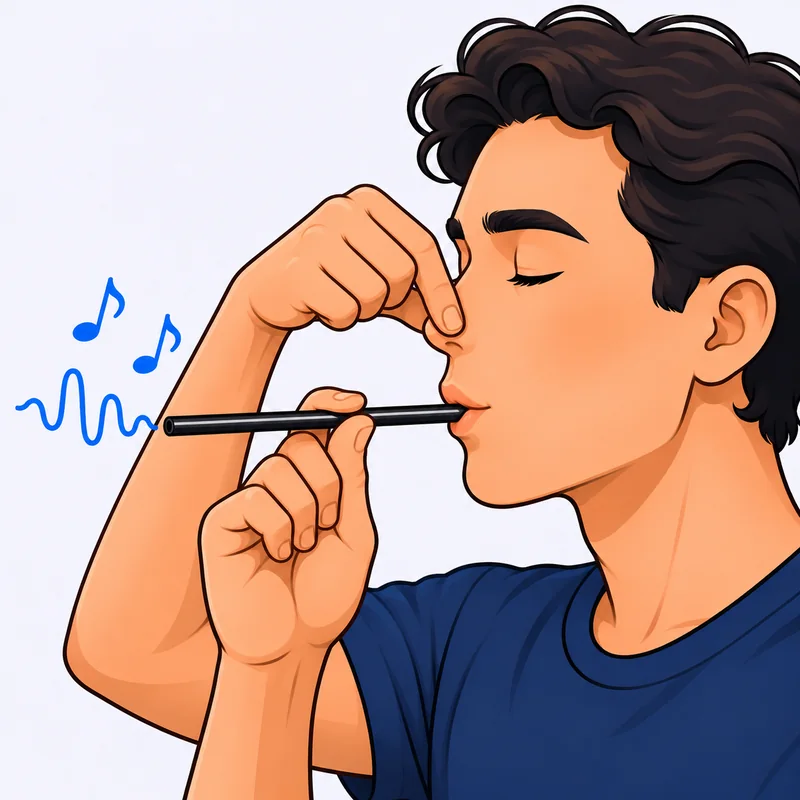
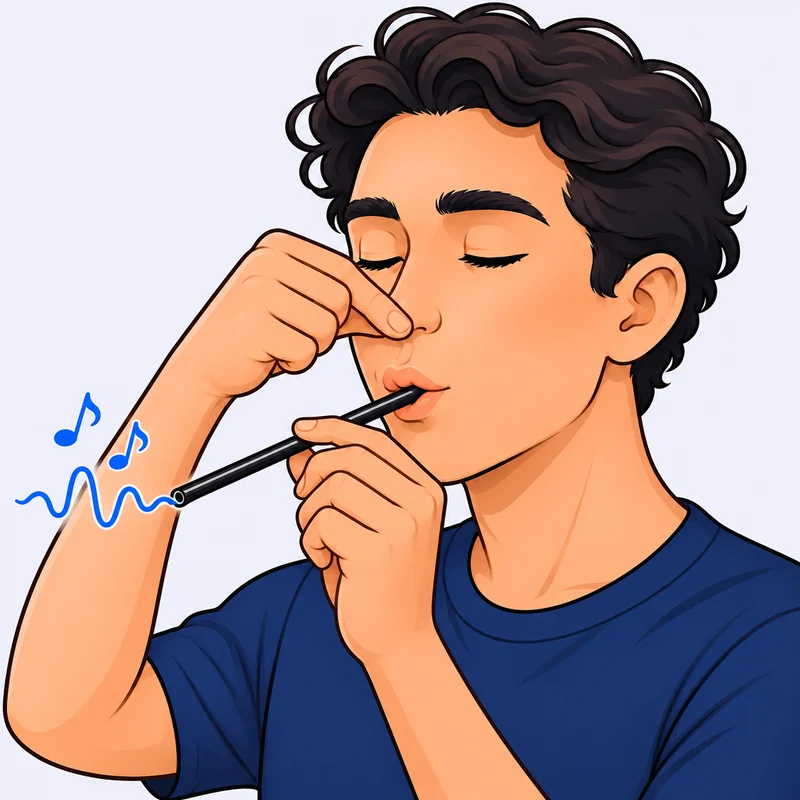
smal fixes

diff --git a/lib/training-onboarding.ts b/lib/training-onboarding.ts
@@ -1,6 +1,6 @@
 import type { LucideIcon } from "lucide-react";
 import { Activity, Clock, Info, Leaf, ShieldCheck, Sparkles, Volume1, Waves } from "lucide-react";
-import { CAP_NAMES, getDefaultKit, getKitPhoto, getKitProfile, type CapColours, type VoiceFlexKit } from "@/lib/kits";
+import { CAP_NAMES, getDefaultKit, getKitPhoto, getKitProfile, isBlueGoOrder, type CapColours, type VoiceFlexKit } from "@/lib/kits";
 import { getProductName, type VoiceFlexProduct } from "@/lib/training-product";
 
 export interface TrainingOnboardingStep {
@@ -105,7 +105,13 @@ export function getTrainingOnboardingConfig(
 ): TrainingOnboardingConfig {
   const productName = getProductName(productType);
   const isGo = kit === "go";
-  // Everyone sees the same product photos as the home page, in the colour of their own kit.
+  // Blue GO keeps the original GO pictures (welcome, set-up slider, safe practice), as P chose.
+  // They show the blue GO, so black GO and the other kits get photos and drawings of their own kit.
+  const blueGo = isGo && isBlueGoOrder(sourceAsin);
+  // The two wide pictures with text are shown whole (contain), so no words get cut off.
+  const yourKit = blueGo
+    ? { ...kitStep(kit, caps), imageSrc: "/images/onboarding/3-adjust-resistance.png", imageFit: "contain" as const }
+    : kitStep(kit, caps);
 
   return {
     productType,
@@ -123,8 +129,8 @@ export function getTrainingOnboardingConfig(
         visualTitle: productName,
         visualSubtitle: "Guided SOVT voice training",
         visualKind: isGo ? "go" : "pro",
-        imageSrc: getKitPhoto(productType, kit, sourceAsin, caps),
-        imageFit: "contain",
+        imageSrc: blueGo ? "/images/onboarding/1-welcome.png" : getKitPhoto(productType, kit, sourceAsin, caps),
+        imageFit: blueGo ? "cover" : "contain",
       },
       {
         id: "sovt",
@@ -149,7 +155,7 @@ export function getTrainingOnboardingConfig(
         visualSubtitle: "Air slows at the lips, the voice works easier",
         visualKind: "sovt",
       },
-      kitStep(kit, caps),
+      yourKit,
       {
         id: "get-the-most",
         label: "Get the most",
@@ -182,6 +188,8 @@ export function getTrainingOnboardingConfig(
         visualTitle: "Safe practice",
         visualSubtitle: "Easy airflow, no strain",
         visualKind: "safety",
+        imageSrc: blueGo ? "/images/onboarding/4-safety.png" : undefined,
+        imageFit: "contain",
       },
     ],
     infoCards: [

diff --git a/components/training-routine-picker.tsx b/components/training-routine-picker.tsx
@@ -232,7 +232,9 @@ function DailySessionHero({
         </Link>
 
         <p className="mt-5 text-sm leading-6 text-slate-500">
-          Written for <span className="font-black text-navy-950">{kitProfile.name}</span>, with {kitProfile.contents}.
+          Written for <span className="font-black text-navy-950">{kitProfile.name}</span>
+          {/* GO is one trainer, so its contents would only repeat the name. */}
+          {kitProfile.kit === "go" ? "." : `, with ${kitProfile.contents}.`}
         </p>
       </div>
 
